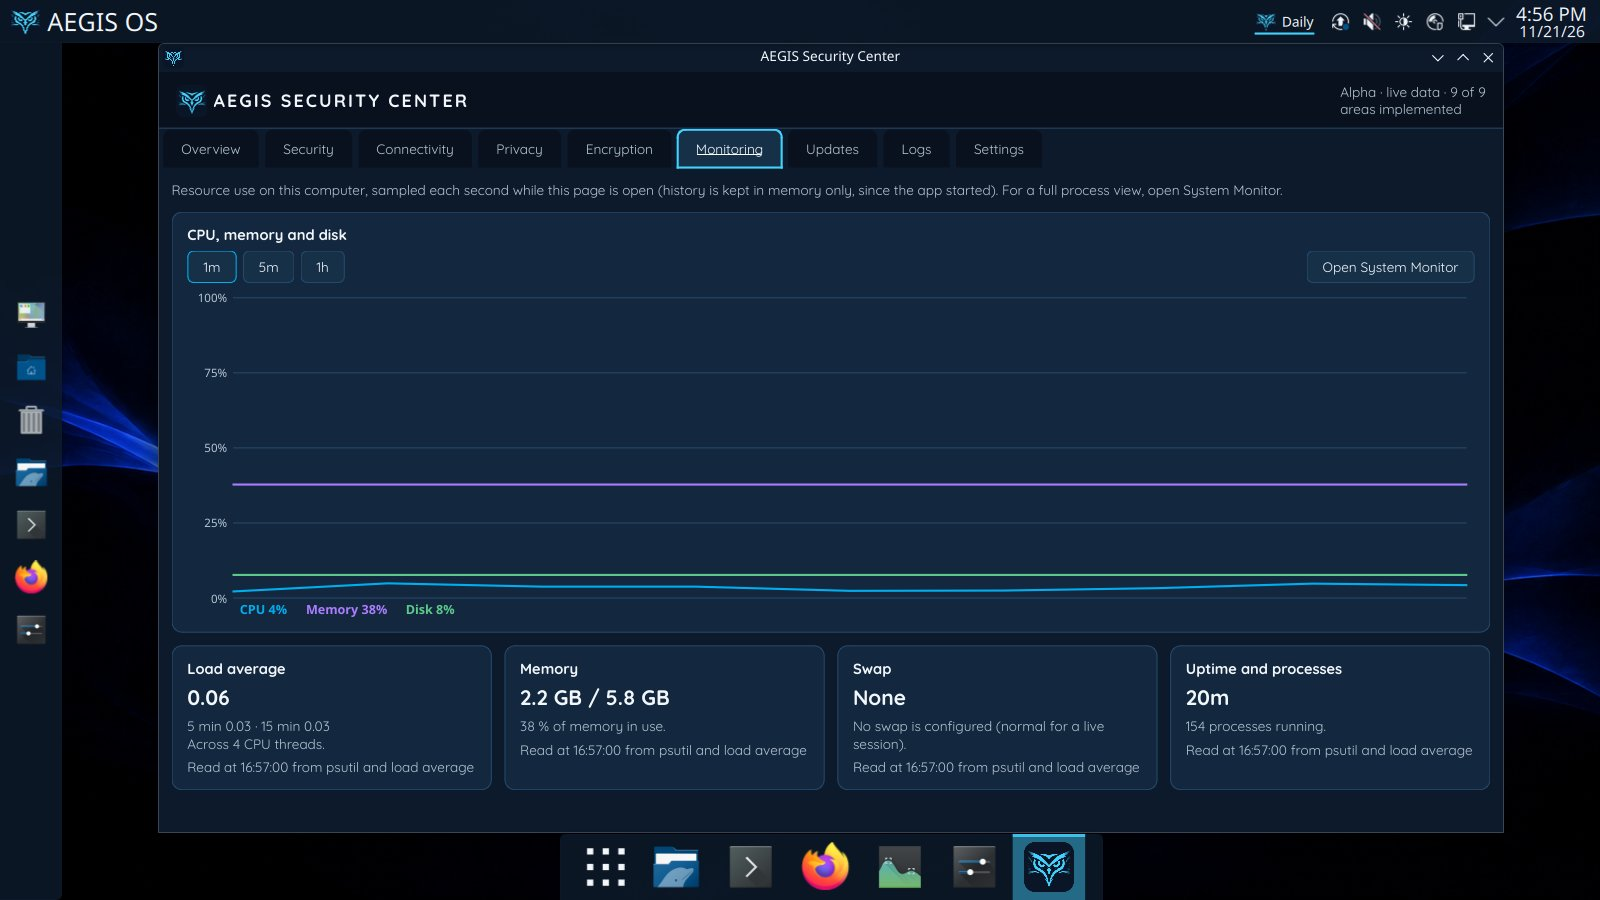
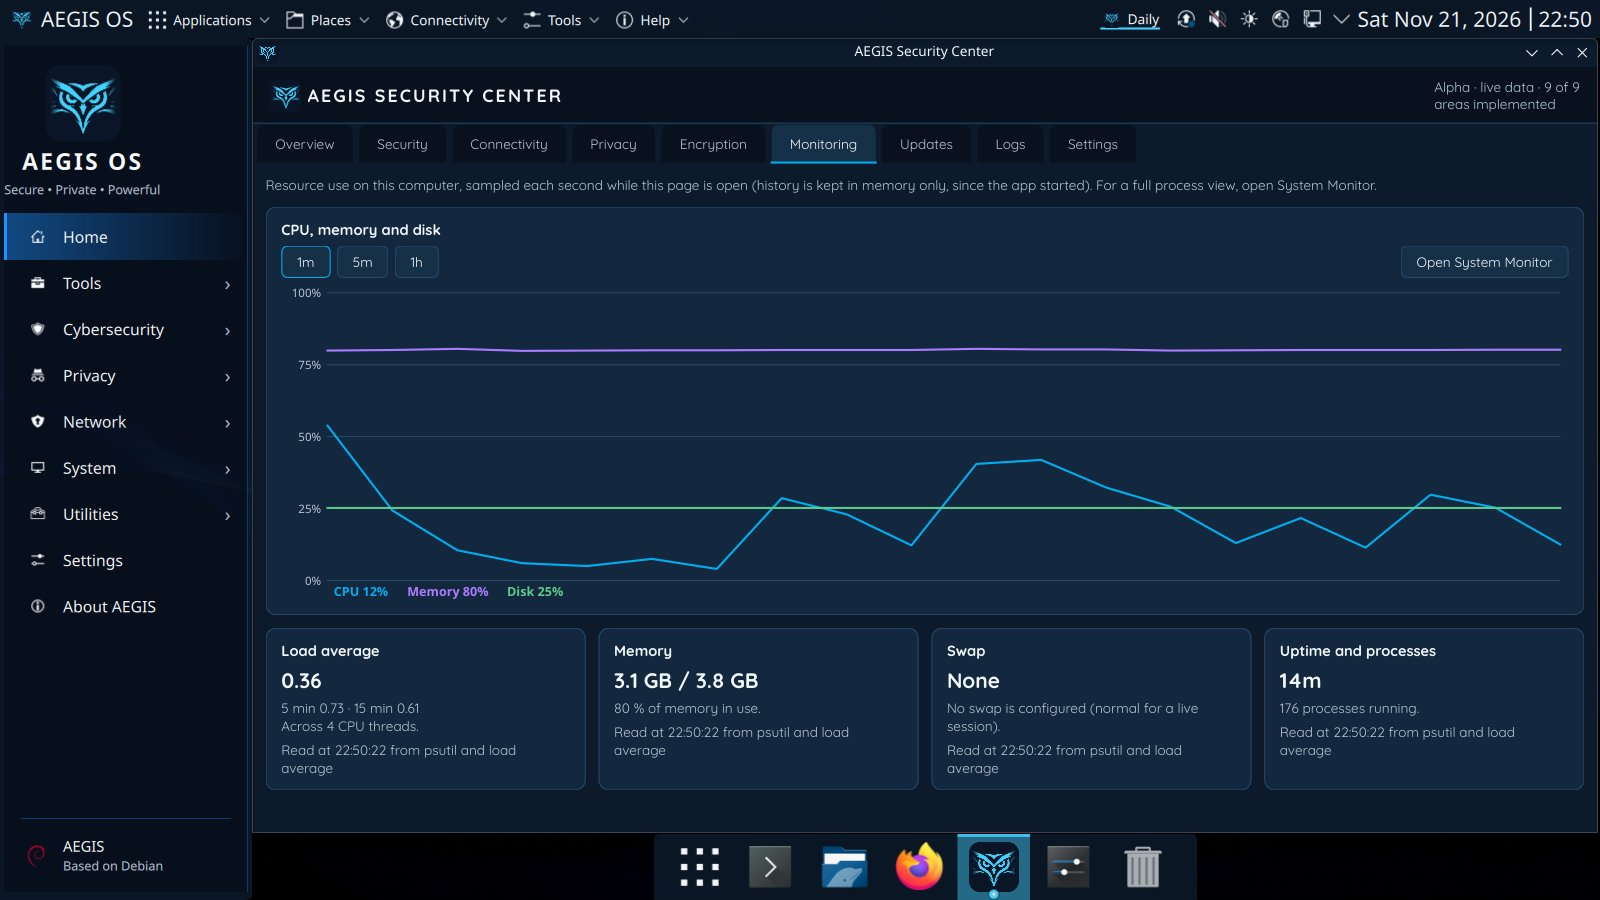
Update README: new AEGIS desktop and live cards, Game Hub, how it is tested, new screenshots

diff --git a/README.md b/README.md
@@ -25,7 +25,7 @@
 
 ---
 
-AEGIS OS is a Linux operating system in development. One desktop, three modes: **Daily** for everyday work, **Gaming** for play and **Cyber** for learning defensive security, plus a built-in **Security Center** that shows what your computer is doing, read straight from the system and never sent anywhere.
+AEGIS OS is a Linux operating system in development. One desktop, three modes: **Daily** for everyday work, **Gaming** for play and **Cyber** for learning defensive security. The new AEGIS desktop puts a category sidebar on the left and live cards for your system, network and connections on the right, and the built-in **Security Center** shows what your computer is doing, read straight from the system and never sent anywhere.
 
 ![AEGIS OS Daily desktop](screenshots/01-daily-desktop.jpg)
 
@@ -43,10 +43,15 @@ Most people have to pick between a simple desktop that hides what it does and a 
 
 ## ✨ What's new
 
-> New features below are built and tested in a virtual machine. They arrive on the installable image with the next build.
+> New features below are built and tested in a virtual machine (see [How it is tested](#-how-it-is-tested)). They arrive on the installable image with the next build.
 
 | | |
 |---|---|
+| 🖥 **New AEGIS desktop** | A top bar with Applications, Places, Connectivity, Tools and Help menus; a left sidebar with every AEGIS area sorted into categories; and a column of glass cards on the right. Designed for laptop and desktop screens: checked at 1920×1080, 1600×900 and 1366×768. |
+| 📊 **Live cards on the desktop** | **System Monitor** (CPU, memory, disk), **Network** (download and upload) and **AEGIS OS** status (*System is up to date* or what needs attention). One shared, low-frequency update keeps them light, and they pause while hidden. |
+| 🌍 **Connectivity card** | Daily and Gaming show a short summary: how many connections, which countries, typical latency. **Cyber** shows a live world map with the countries you are connected to, latency per country and the fastest connections. Latency is the kernel's own measurement of your existing connections: AEGIS sends no probe packets, and your public IP appears only if you agree. |
+| 🕹 **AEGIS Game Hub** | An optional full-screen place for game launchers (Steam, Lutris, RetroArch, Heroic) with the Gaming check built in. Launchers are installed only when you ask, run as you, and AEGIS never reads your game libraries. Esc leaves the Hub. |
+| ♿ **Easier to read** | Small text on the desktop cards meets the 4.5:1 contrast guideline on the Daily, Gaming and Cyber wallpapers, every card can be reached with Tab and opened with Enter, and long labels shorten neatly instead of running off the edge. |
 | 🦉 **New white Guardian Owl** | A clean, sharp owl emblem everywhere: boot screen, login, icons and wallpapers. At start-up the owl's eyes light up in AEGIS Blue. |
 | 🎮 **Three modes: Daily, Gaming, Cyber** | A new **Gaming** mode with its own green look and the performance power profile on mains power. **Daily** keeps your own look and power settings. **Cyber** is the Security Lab. |
 | 🎬 **Smooth mode transitions** | Every switch plays its own effect: Daily a soft fade, Gaming an energy burst, Cyber a scanline glitch. With reduced motion turned on it is a calm still image, and Esc skips it. |
@@ -84,7 +89,8 @@ Each mode has its own transition, from simple to intense: a soft **Daily** fade,
 | 🛡 **AEGIS Security Center** | Nine areas in one place. Every value is read from the system, never guessed and never sent anywhere. |
 | 🌍 **Live Connectivity globe and map** | See where your connections go. Country lookup runs offline; your own location is only looked up if you agree. |
 | 🔐 **One-click VPN** | Turn your own configured VPN on or off from Connectivity. |
-| 🎮 **Gaming mode** | Performance power profile on mains power, notifications paused while a game runs, file indexing paused, a Gaming check for your hardware, and your normal settings back when you leave. |
+| 🖥 **AEGIS desktop** | Category sidebar, top-bar menus and live cards for system, network, connections and updates, in the colour of the current mode. |
+| 🎮 **Gaming mode** | Performance power profile on mains power, notifications paused while a game runs, file indexing paused, a Gaming check for your hardware, and your normal settings back when you leave. The optional **Game Hub** keeps your launchers in one full-screen place. |
 | 🧪 **AEGIS Security Lab** | Curated, documented tools from Debian (Wireshark, tcpdump, Nmap, mtr, iperf3, Lynis, The Sleuth Kit, GDB). Each one shows its source, allowed use, required rights and guided first steps. |
 | 🕶 **Privacy Session** | A private Firefox that lives only in memory, Tor Browser through Debian's signed launcher, a temporary folder in RAM and one-click cleanup. |
 | 🔔 **Security updates you can't miss** | Security fixes get a clear AEGIS card with *Update now* or *Later*. Checks pause on metered connections. |
@@ -102,9 +108,43 @@ Each mode has its own transition, from simple to intense: a soft **Daily** fade,
 |:---:|:---:|:---:|
 | ![Daily mode](screenshots/01-daily-desktop.jpg) | ![Gaming mode](screenshots/10-gaming-desktop.jpg) | ![Cyber mode](screenshots/02-cyber-desktop.jpg) |
 
+### The AEGIS desktop
+
+Every AEGIS area sorted into categories in the sidebar, and quick menus in the top bar:
+
+| Sidebar categories | Top-bar menus |
+|:---:|:---:|
+| ![Sidebar with the Cybersecurity category open](screenshots/16-sidebar.jpg) | ![Tools menu in the top bar](screenshots/17-top-menu.jpg) |
+
+<table>
+<tr>
+<td width="30%"><img src="screenshots/18-hud-cards.jpg" alt="Desktop cards in Cyber mode: System Monitor, Network, live Connectivity map with latency, AEGIS OS status"></td>
+<td>
+
+**The cards in Cyber mode**
+
+- **System Monitor:** CPU, memory and disk with a short history.
+- **Network:** live download and upload.
+- **Connectivity:** a live map of the countries you are connected to, latency per country and the fastest connections. Latency comes from the kernel's own measurements of connections that already exist; nothing extra is sent.
+- **AEGIS OS:** update and firewall status. Click or press Enter to open the matching Security Center page.
+
+</td>
+</tr>
+</table>
+
+Smaller laptop screens get a tighter layout instead of cut-off cards (1366×768):
+
+![AEGIS desktop at 1366x768 in Cyber mode](screenshots/20-small-screen-1366.jpg)
+
 Pick a mode from the top bar:
 
 ![Mode menu: Daily, Gaming, Cyber](screenshots/14-mode-menu.jpg)
+
+### AEGIS Game Hub
+
+Your launchers in one full-screen place, with an honest Gaming check of your hardware (here a virtual machine, so it says games will be slow):
+
+![AEGIS Game Hub](screenshots/19-game-hub.jpg)
 
 AEGIS apps follow the mode, here Security Center in Gaming mode:
 
@@ -142,21 +182,38 @@ Connections shown by country on a map or a globe, worked out offline on your com
 |:---:|
 | ![Boot menu](screenshots/07-boot-menu.jpg) |
 
+## 🧪 How it is tested
+
+> Every feature on this page has been run, not just designed. Here is what the current development build has been checked with.
+
+| Check | Result |
+|---|---|
+| 📦 Package tests in fresh Debian 13 systems: install, update, refusing incompatible versions, removal | **173 passed, 0 failed** |
+| 🌗 Mode engine tests (Daily, Gaming, Cyber, transitions, safe switching, rollback) | **213 passed** |
+| 🖥 Desktop card tests (data, layout, contrast) | **18 passed** |
+| 🧭 Desktop layout in a virtual machine | Checked at **1920×1080 and 1366×768** (Daily and Cyber) and **1600×900** (Daily, Gaming and Cyber): nothing cut off, nothing overlapping |
+| ♿ Contrast of small text on the desktop cards | **At least 4.5:1**, measured on the brightest part of the Cyber wallpaper |
+| ⌨ Keyboard | Tab reaches every card with a visible focus border; Enter opens the matching Security Center page |
+| 🔕 Network honesty | The Connectivity card sends no probe packets; your public IP is looked up only after you agree |
+| 💻 Real hardware | Earlier builds (security foundation, Daily/Lab modes, Privacy Session) passed a USB test on a real laptop. The features above get the same test after the next build |
+
+<sub>Not tested yet for the new desktop: screen readers, 4K/HiDPI scaling and real hardware.</sub>
+
 ## 🔭 Future vision
 
 > **Where AEGIS is heading:** from today's private preview to a **1.0 release** that anyone can install, keep updated and trust, and then on to a **security workstation with an ethical AI assistant**. Every step ships only after it passes its tests.
 
 ```mermaid
 flowchart LR
-    A["Now<br/>0.1.0-alpha1 preview"] --> B["Next<br/>three modes · new owl<br/>Game Hub · Cyber labs"]
+    A["Now<br/>0.1.0-alpha1 preview<br/>three modes · new desktop"] --> B["Next<br/>one tested build<br/>Cyber labs · better updates"]
     B --> C["1.0<br/>installer · Windows apps<br/>signed updates"]
-    C --> D["Beyond 1.0<br/>dashboard desktop<br/>ethical AI assistant<br/>AEGIS V2"]
+    C --> D["Beyond 1.0<br/>docked terminal<br/>ethical AI assistant<br/>AEGIS V2"]
 ```
 
 **Next**
 
-- **Next build:** the white owl, three modes with the mode menu, transitions, safe switching and the Gaming check on the installable image.
-- **Gaming:** hardware-aware performance settings and an optional full-screen Game Hub. Game launchers stay your choice and are never installed without asking.
+- **Next build:** the new AEGIS desktop and cards, the white owl, three modes with the mode menu, transitions, safe switching, the Gaming check and the Game Hub, together on the installable image.
+- **Real-hardware test:** the new build on a real laptop from a USB stick, before anything else moves on.
 - **Cyber Virtual Labs:** optional practice machines, offline and isolated by default, with beginner templates and advanced management.
 - **Updates done properly:** module-aware updates with history, health checks, and rollback if something goes wrong.
 
@@ -169,7 +226,7 @@ flowchart LR
 
 **Beyond 1.0**
 
-- **Dashboard desktop:** System Monitor, Network and Connectivity cards on the desktop, with a terminal docked at the bottom that holds multiple tabs.
+- **Docked terminal:** a terminal docked at the bottom of the desktop that holds multiple tabs. (The dashboard cards are already done, see above.)
 - **AEGIS AI Assistant:** a guided assistant for *authorized* security work that explains triage, recon and pentest workflows step by step. It refuses targets outside what you are allowed to test, asks before every impactful action and keeps a log. No autonomous attacks, mass scanning, credential theft or stealth features, ever.
 - **AEGIS V2:** an amnesic live mode, stronger isolation, advanced monitoring, better privacy and wider hardware support.
 
